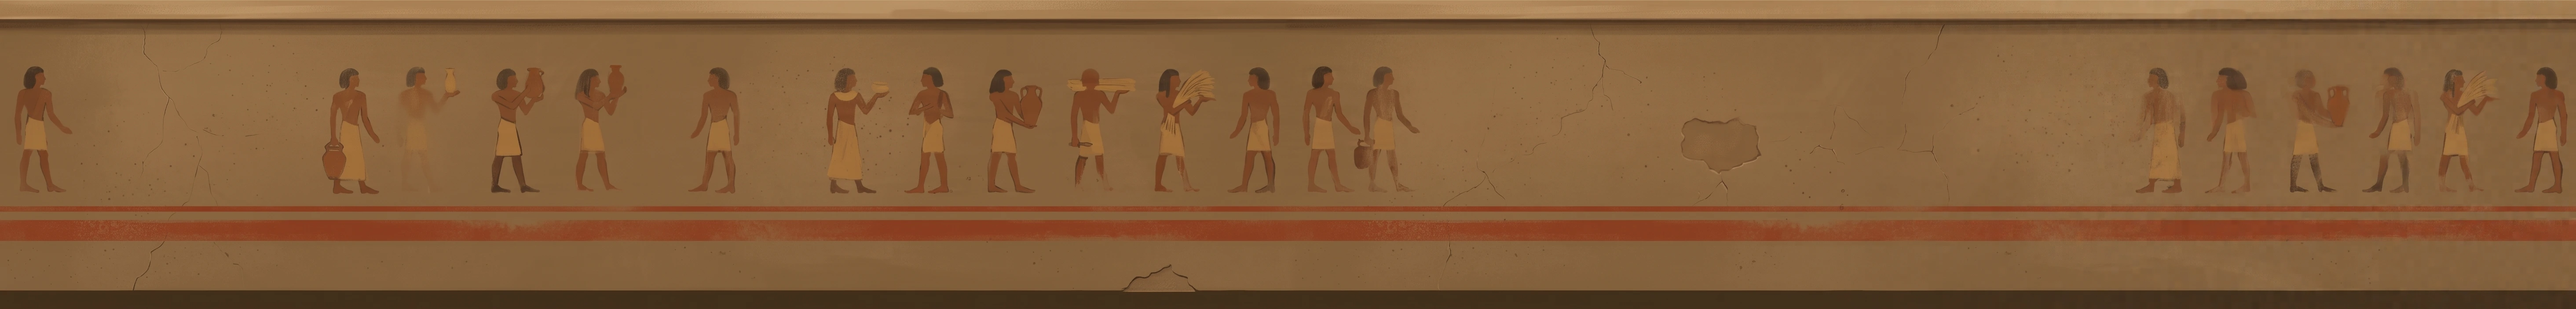
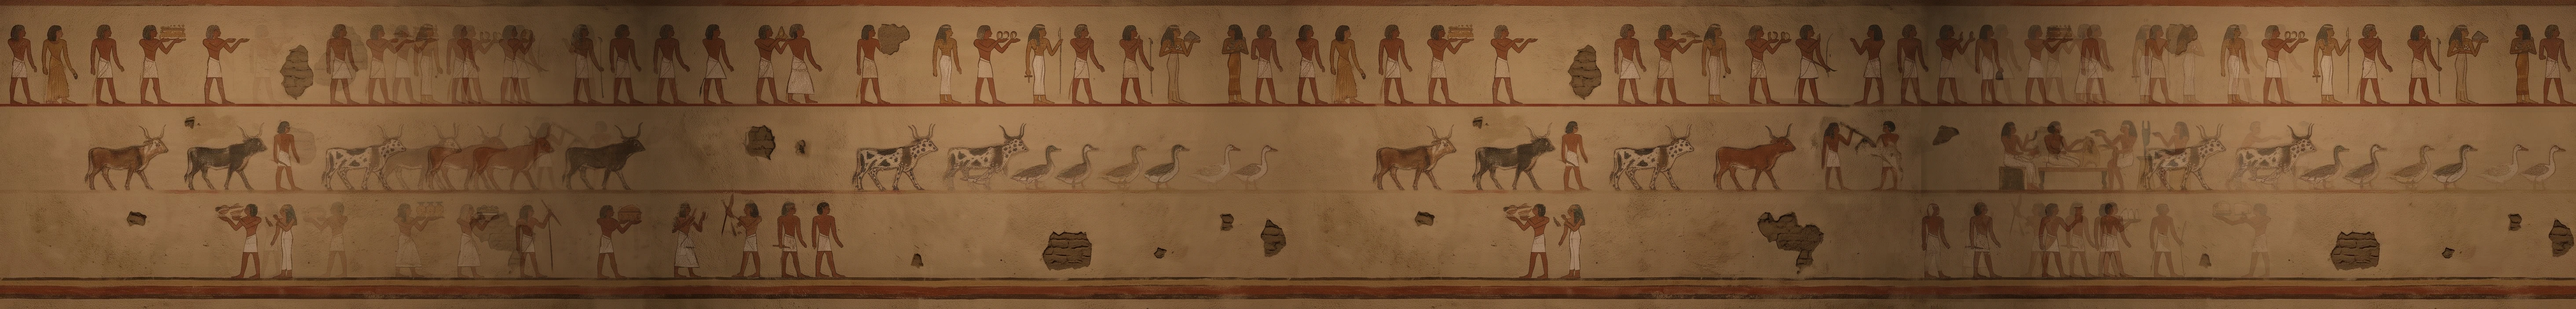
feat: the nobleman's surfaces are all returns, and 2x
junior/wall-face joins his floor and threshold. That rank is complete: three
surfaces, four props, three wall items, every one with a master that is a return
and a rebuild line, all at 2x.

The face is the one re-roll that had to be asked for twice, and the reason is
worth the note it got. The first prompt described worn plaster over mudbrick and
produced a good tile of the WRONG THING: the brief gives this rank "full plaster,
procession murals (banquet, hunt, granary), painted dado band", and the tile it
would have replaced already had that. Naming the registers explicitly — offering
bearers, then cattle and geese, then a banquet, about thirty figures across — got
all three, and the result is better than what it replaces, which had one register
where the brief asks for three.

--repeat=1, not the docs' 2: the return is already one wall's height at 8:1 with
the figures at the right size, and doubling it halves them and puts the whole
procession on the strip twice.

The tile measures lum 98 against the floor's 156 — 58 darker. A wall being darker
than the floor in front of it is where the map's depth comes from, so that is now
a check on every face.

art-tasks.md carries the six things these prompts had to learn, in the order they
cost rolls, so expert, master and wizard do not pay for them again.

Claude-Session: https://claude.ai/code/session_01TNgAGcPkVV74oznnqfXVVF

diff --git a/docs/instructions/art-tasks.md b/docs/instructions/art-tasks.md
@@ -25,10 +25,27 @@ lineage and not the shipped tiles' input, so the route is a re-roll rather than 
 
 | rank   | floor | wall-face | threshold |
 | ------ | ----- | --------- | --------- |
-| junior | ☐     | ☐         | ☐         |
+| junior | ✅    | ✅        | ✅        |
 | expert | ☐     | ☐         | ☐         |
 | master | ☐     | ☐         | ☐         |
 | wizard | ☐     | ☐         | ☐         |
+
+**The junior three are the worked example — read their block in `art/rebuild.sh` before rolling another
+rank.** What the prompts had to learn, in the order it cost rolls:
+
+1. **Count the features; never mention cells.** "A texture drawn at eight cells across" means nothing to
+   a generator and came back at brick scale, needing `--repeat=4.5` — which multiplies every distinctive
+   mark four or five times and turned the brief's ochre banding into a lattice. "About sixteen slabs
+   across the width, in irregular sizes" came back at eight, needing 1.6.
+2. **Forbid strong features outright.** Whatever is distinctive gets repeated. The accent belongs in a
+   joint or a worn patch, never as a band.
+3. **State the aspect and it is obeyed** — 8:1 for a face and 4:1 for a sill both came back within 1%.
+4. **Name what the brief names.** The first face prompt described worn plaster and produced a good tile
+   of the wrong thing; the brief wants a procession, and naming the three registers got all three.
+5. **A face must measure DARKER than its floor** — junior's is 98 against 156. That difference is where
+   the map's depth comes from, so check it every time.
+6. **A sill is neither tiled nor repeated**, and it may need `--brightness` above 1: on a near-grey
+   return, saturation converts brightness into chroma and drives the tile darker before it is warm.
 
 Each one: roll it, `yarn import-tile` through the per-slot recipe, keep the download as
 `art/masters/surfaces/<rank>-<slot>.webp`, add its rebuild line. Then that rank's surfaces are 2x and the
